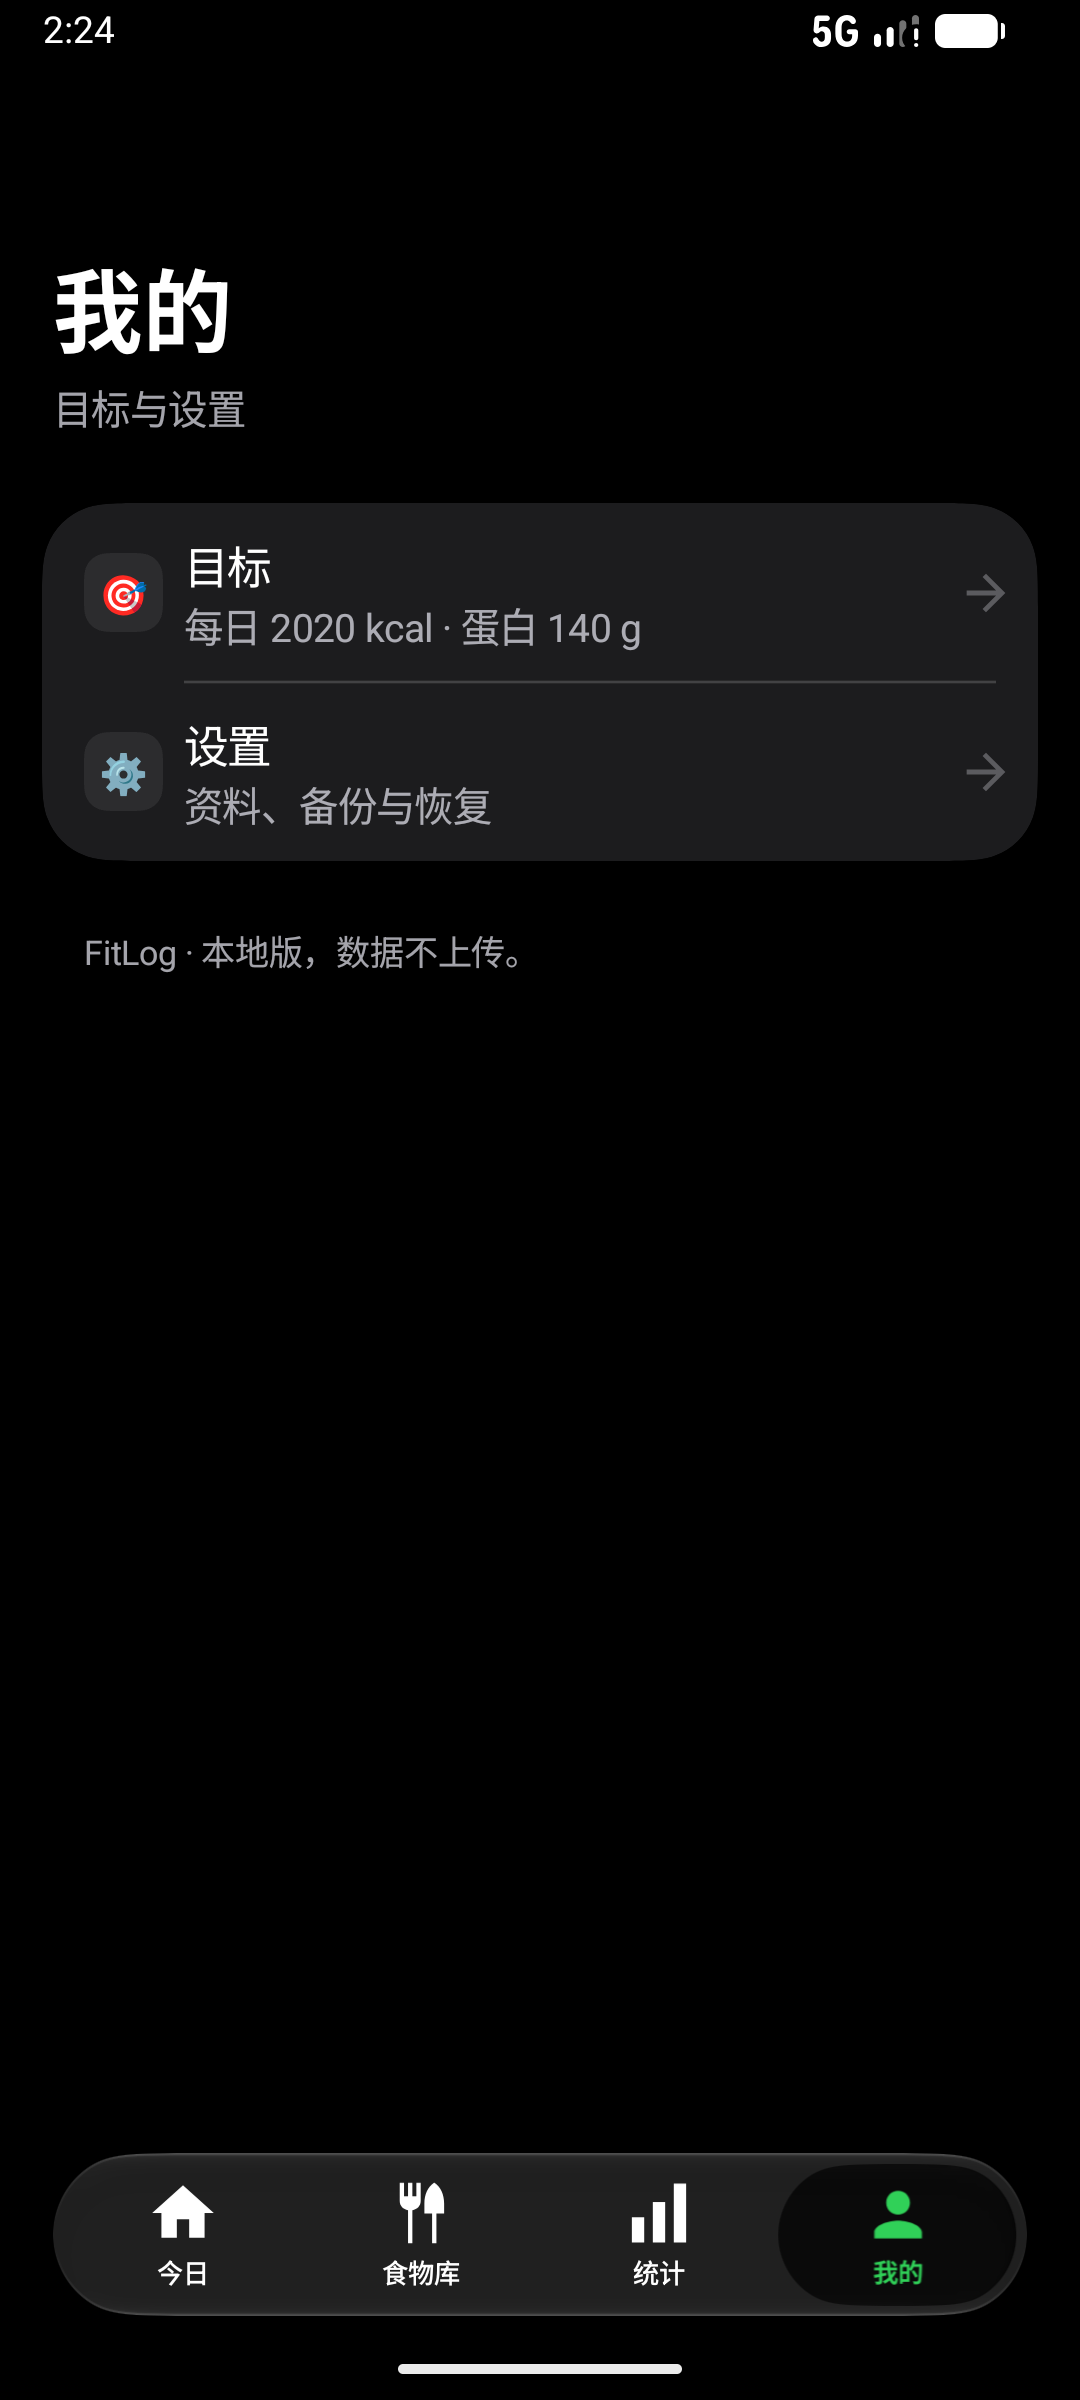
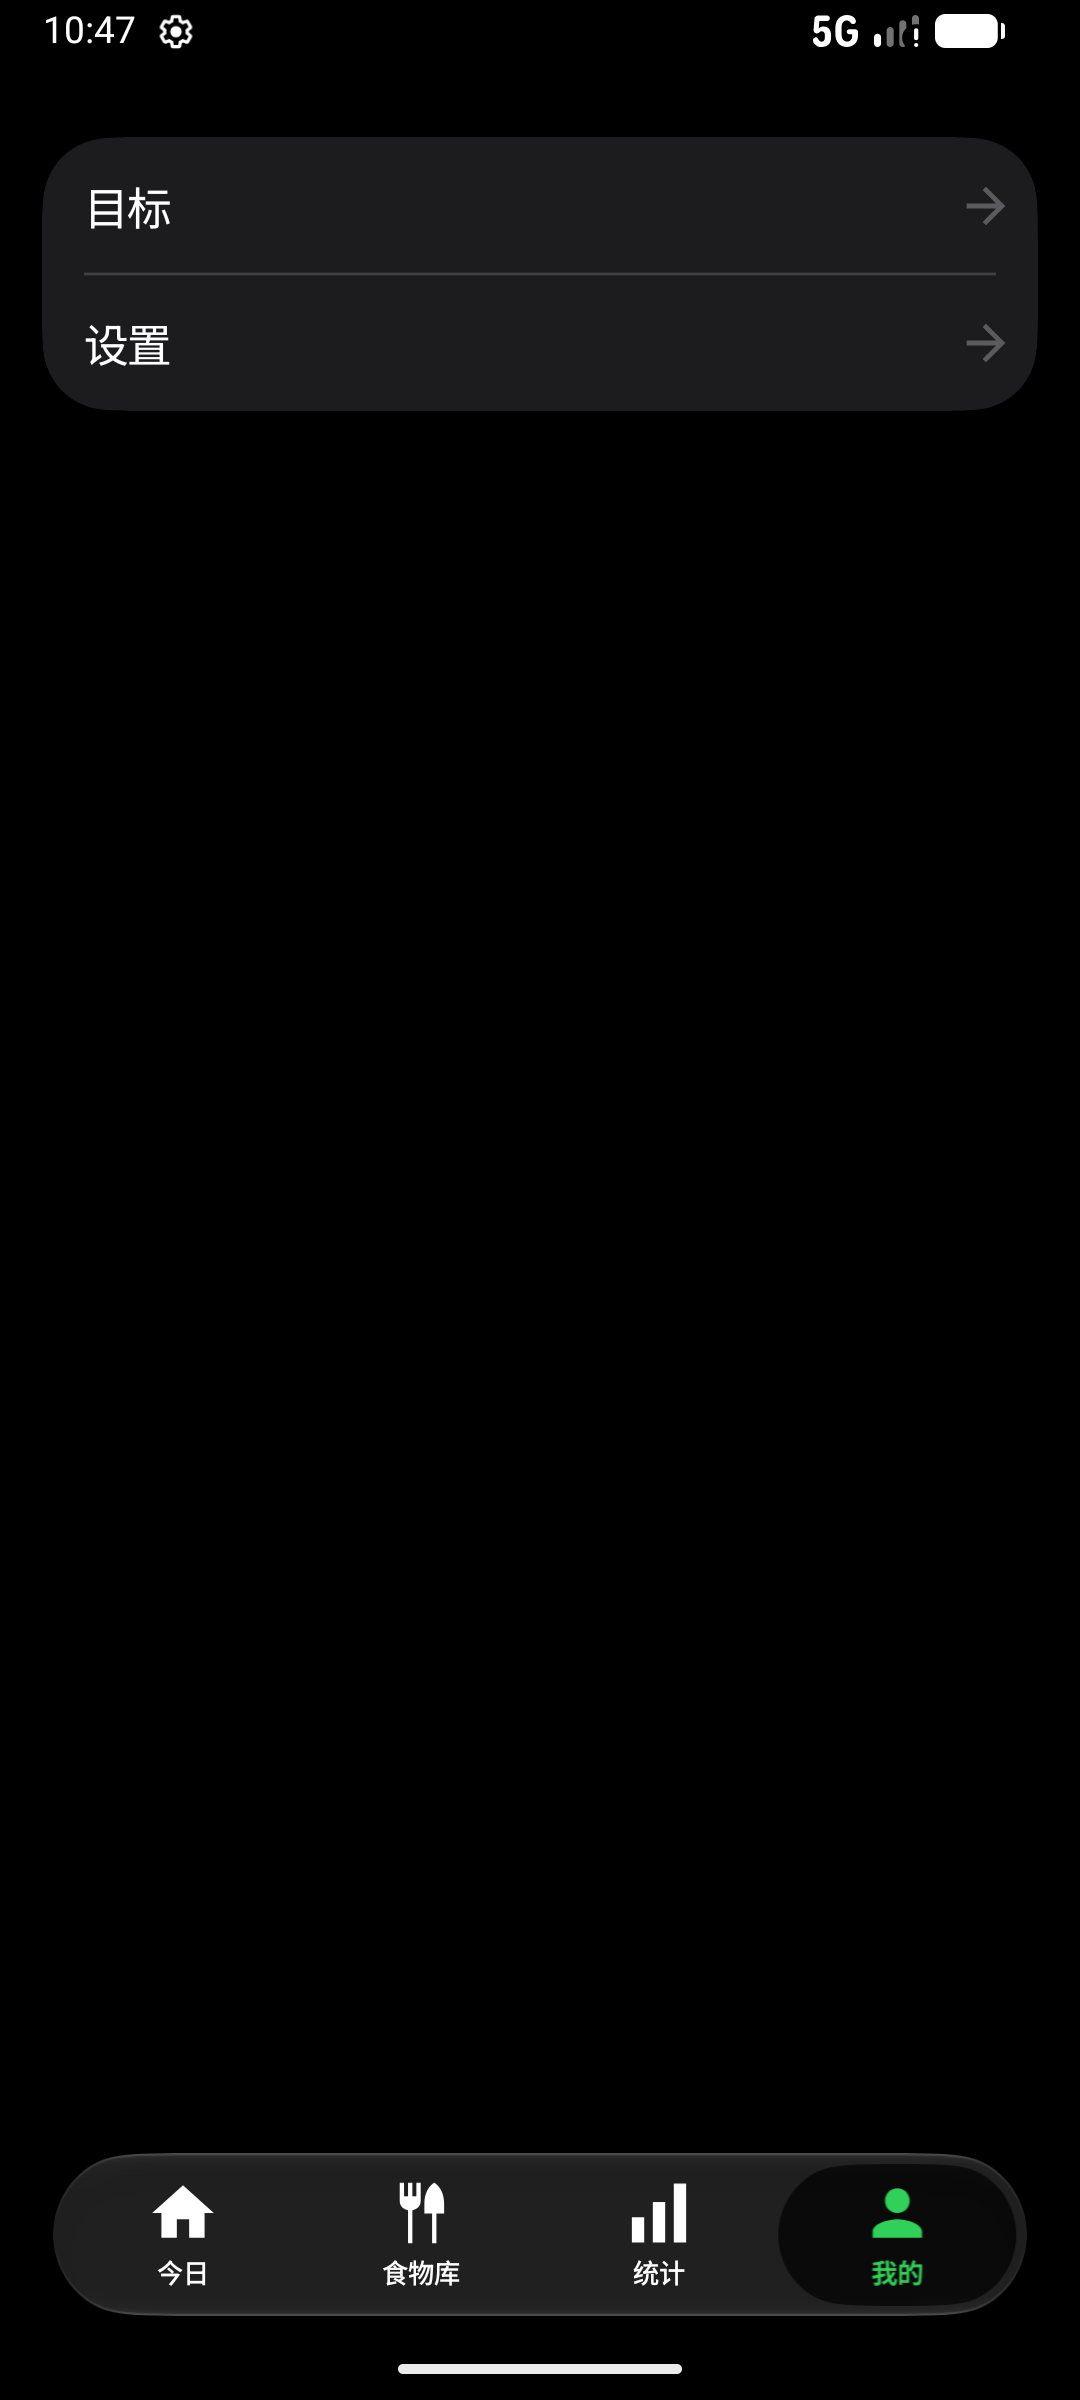
简化「我的」层级页面
- 一级「我的」只剩两行：目标、设置（去掉大标题/副标题、左侧图标、行副标题、页脚）
- 目标页：去掉蛋白/碳水/脂肪前的色点；身高、体重拆成两格；去掉底部「去设置修改」提示
- 设置页：去掉底部说明文字
- 浅色/深色截图同步

Changed region(s): [[0.0306, 0.0, 0.9778, 0.4062], [0.7944, 0.9062, 0.8556, 0.9688], [0.0306, 0.0, 0.0917, 0.0312]]

diff --git a/app/src/main/java/com/fitlog/app/ui/screens/MeScreen.kt b/app/src/main/java/com/fitlog/app/ui/screens/MeScreen.kt
@@ -2,87 +2,61 @@ package com.fitlog.app.ui.screens
 
 import androidx.compose.foundation.background
 import androidx.compose.foundation.layout.Box
-import androidx.compose.foundation.layout.Column
-import androidx.compose.foundation.layout.Spacer
-import androidx.compose.foundation.layout.height
-import androidx.compose.foundation.layout.size
+import androidx.compose.foundation.layout.PaddingValues
+import androidx.compose.foundation.layout.WindowInsets
+import androidx.compose.foundation.layout.asPaddingValues
+import androidx.compose.foundation.layout.fillMaxSize
+import androidx.compose.foundation.layout.statusBars
+import androidx.compose.foundation.lazy.LazyColumn
 import androidx.compose.foundation.lazy.LazyListState
-import androidx.compose.material3.Text
 import androidx.compose.runtime.Composable
-import androidx.compose.ui.Alignment
 import androidx.compose.ui.Modifier
-import androidx.compose.ui.draw.clip
 import androidx.compose.ui.unit.Dp
 import androidx.compose.ui.unit.dp
-import androidx.compose.ui.unit.sp
-import com.fitlog.app.data.AppData
-import com.fitlog.app.domain.targetsOf
-import com.fitlog.app.ui.components.IosGroupFooter
-import com.fitlog.app.ui.components.IosSectionHeader
-import com.kyant.capsule.ContinuousRoundedRectangle
 import io.github.neoruaa.glasmio.core.GlasmioTheme
-import io.github.neoruaa.glasmio.core.systemGray5
-import io.github.neoruaa.glasmio.scaffold.GlasmioPinnedListPage
 import io.github.neoruaa.glasmio.ui.GlasmioGroupedList
 import io.github.neoruaa.glasmio.ui.GlasmioListRow
 
 /**
  * 「我的」一级页：只保留「目标」「设置」两个入口。
  *
- * 原来的目标数字、食物库规模、记录天数、备份/恢复、清空数据都收进这两个入口：
- * 目标页只读展示当前目标，设置页放资料修改和备份相关操作。
+ * 标题、图标、副标题、页脚全部去掉——这一页就是一张两行的列表，
+ * 减少信息量，把细节交给二级页面。
  */
 @Composable
 fun MeScreen(
-    data: AppData,
     listState: LazyListState,
     bottomPadding: Dp,
     onOpenTarget: () -> Unit,
     onOpenSettings: () -> Unit,
 ) {
-    val targets = targetsOf(data.profile)
-
-    GlasmioPinnedListPage(
-        title = "我的",
-        subtitle = "目标与设置",
-        listState = listState,
-        bottomPadding = bottomPadding,
-    ) {
-        item(key = "entries") {
-            GlasmioGroupedList {
-                GlasmioListRow(
-                    title = "目标",
-                    subtitle = "每日 ${targets.kcal} kcal · 蛋白 ${targets.protein} g",
-                    showTopSeparator = false,
-                    onClick = onOpenTarget,
-                    leading = { EmojiTile("🎯") },
-                )
-                GlasmioListRow(
-                    title = "设置",
-                    subtitle = "资料、备份与恢复",
-                    onClick = onOpenSettings,
-                    leading = { EmojiTile("⚙") },
-                )
-            }
-        }
-
-        item(key = "footer") {
-            Spacer(Modifier.height(8.dp))
-            IosGroupFooter("FitLog · 本地版，数据不上传。")
-        }
-    }
-}
-
-/** 列表行左侧的小图标底：和食物库的分类图标保持同一种尺寸和圆角。 */
-@Composable
-private fun EmojiTile(emoji: String) {
     Box(
         Modifier
-            .size(30.dp)
-            .clip(ContinuousRoundedRectangle(9.dp))
-            .background(GlasmioTheme.colors.systemGray5),
-        contentAlignment = Alignment.Center,
+            .fillMaxSize()
+            .background(GlasmioTheme.colors.groupedBackground),
     ) {
-        Text(emoji, fontSize = 15.sp)
+        LazyColumn(
+            state = listState,
+            contentPadding = PaddingValues(
+                start = 16.dp,
+                end = 16.dp,
+                top = WindowInsets.statusBars.asPaddingValues().calculateTopPadding() + 28.dp,
+                bottom = bottomPadding + 24.dp,
+            ),
+        ) {
+            item(key = "entries") {
+                GlasmioGroupedList {
+                    GlasmioListRow(
+                        title = "目标",
+                        showTopSeparator = false,
+                        onClick = onOpenTarget,
+                    )
+                    GlasmioListRow(
+                        title = "设置",
+                        onClick = onOpenSettings,
+                    )
+                }
+            }
+        }
     }
 }

diff --git a/app/src/main/java/com/fitlog/app/ui/sheets/MePages.kt b/app/src/main/java/com/fitlog/app/ui/sheets/MePages.kt
@@ -18,7 +18,6 @@ import androidx.compose.foundation.layout.padding
 import androidx.compose.foundation.layout.size
 import androidx.compose.foundation.lazy.LazyColumn
 import androidx.compose.foundation.lazy.rememberLazyListState
-import androidx.compose.foundation.shape.CircleShape
 import androidx.compose.material3.Text
 import androidx.compose.runtime.Composable
 import androidx.compose.runtime.getValue
@@ -40,7 +39,6 @@ import com.fitlog.app.ui.components.IosGroupFooter
 import com.fitlog.app.ui.components.IosSectionHeader
 import com.fitlog.app.ui.components.PrimaryCapsule
 import com.fitlog.app.ui.components.ValueRow
-import com.fitlog.app.ui.theme.FitPalette
 import io.github.neoruaa.glasmio.core.GlasmioTheme
 import io.github.neoruaa.glasmio.core.IosTypography
 import io.github.neoruaa.glasmio.scaffold.GlasmioPinnedPage
@@ -93,21 +91,9 @@ fun TargetPage(data: AppData, onDismiss: () -> Unit) {
                             detail = "${targets.kcal} kcal",
                             showTopSeparator = false,
                         )
-                        GlasmioListRow(
-                            title = "蛋白",
-                            detail = "${targets.protein} g",
-                            leading = { MacroDot(FitPalette.protein) },
-                        )
-                        GlasmioListRow(
-                            title = "碳水",
-                            detail = "${targets.carbs} g",
-                            leading = { MacroDot(FitPalette.carbs) },
-                        )
-                        GlasmioListRow(
-                            title = "脂肪",
-                            detail = "${targets.fat} g",
-                            leading = { MacroDot(FitPalette.fat) },
-                        )
+                        GlasmioListRow(title = "蛋白", detail = "${targets.protein} g")
+                        GlasmioListRow(title = "碳水", detail = "${targets.carbs} g")
+                        GlasmioListRow(title = "脂肪", detail = "${targets.fat} g")
                     }
                 }
             }
@@ -118,29 +104,18 @@ fun TargetPage(data: AppData, onDismiss: () -> Unit) {
                     GlasmioGroupedList {
                         ValueRow("基础代谢", "${targets.bmr} kcal")
                         ValueRow("总消耗", "${targets.tdee} kcal")
-                        ValueRow("身高体重", "${p.height.pretty()} cm · ${p.weight.pretty()} kg")
+                        ValueRow("身高", "${p.height.pretty()} cm")
+                        ValueRow("体重", "${p.weight.pretty()} kg")
                         ValueRow("活动量", ActivityLevels.labelOf(p.activity))
                         ValueRow("目标", goalName)
                     }
                 }
             }
 
-            item(key = "footer") {
-                IosGroupFooter("要改这些数值，去「设置 → 修改资料与目标」。")
-            }
         }
     }
 }
 
-@Composable
-private fun MacroDot(color: Color) {
-    Box(
-        Modifier
-            .size(10.dp)
-            .clip(CircleShape)
-            .background(color),
-    )
-}
 
 /* ============================ 设置 ============================ */
 
@@ -259,12 +234,6 @@ fun SettingsPage(
                 }
             }
 
-            item(key = "note") {
-                IosGroupFooter(
-                    "数据存在本机的应用私有目录里，卸载应用会一起删掉。" +
-                        "设好备份地址后，每周点一下「导出备份」即可，文件直接写到那个目录。",
-                )
-            }
         }
     }
 

diff --git a/app/src/main/java/com/fitlog/app/ui/FitLogApp.kt b/app/src/main/java/com/fitlog/app/ui/FitLogApp.kt
@@ -191,7 +191,6 @@ private fun FitLogContent(vm: AppViewModel, data: AppData) {
                     )
 
                     Tab.ME -> MeScreen(
-                        data = data,
                         listState = meList,
                         bottomPadding = bottomBarSpace,
                         onOpenTarget = { vm.openTarget() },

diff --git a/README.md b/README.md
@@ -340,7 +340,7 @@ AGP 9.0 起内置 Kotlin 支持，**不再需要** `org.jetbrains.kotlin.android
 | 记录 | 搜索（中文 / 拼音首字母）、分类筛选、份量步进、一顿汇总后一次入账、删错了可以撤销 |
 | 食物库 | 新建/编辑/删除、七个分类、按使用频次排序、按营养表（能量填 kJ、每 100 g）+ 实际克数自动折算、批量粘贴导入（支持 `485kj`）、空库引导建第一个 |
 | 统计 | 月历（每天标出当日热量，可一直往回翻）、点某天看当日详情（与今日页同一套四圈环，不重复列餐次）、体重折线、记体重 |
-| 我的 | 一级只有「目标」「设置」：目标页只读展示每日目标（蛋白/碳水/脂肪拆成三行）与身体消耗；设置页放修改资料、备份地址、导出/导入和上次备份时间 |
+| 我的 | 一级只有「目标」「设置」两行（无标题、图标、副标题）；目标页只读展示每日目标（蛋白/碳水/脂肪各一行，身高体重分两格）与身体消耗；设置页放修改资料、备份地址、导出/导入和上次备份时间 |
 | 体验 | 深浅色跟随系统、大标题随滚动收起、底栏随滚动收缩、二级页面玻璃顶栏 + 水平推入、键盘弹起时表单自动上移 |
 
 ### 用起来要知道的三件事
